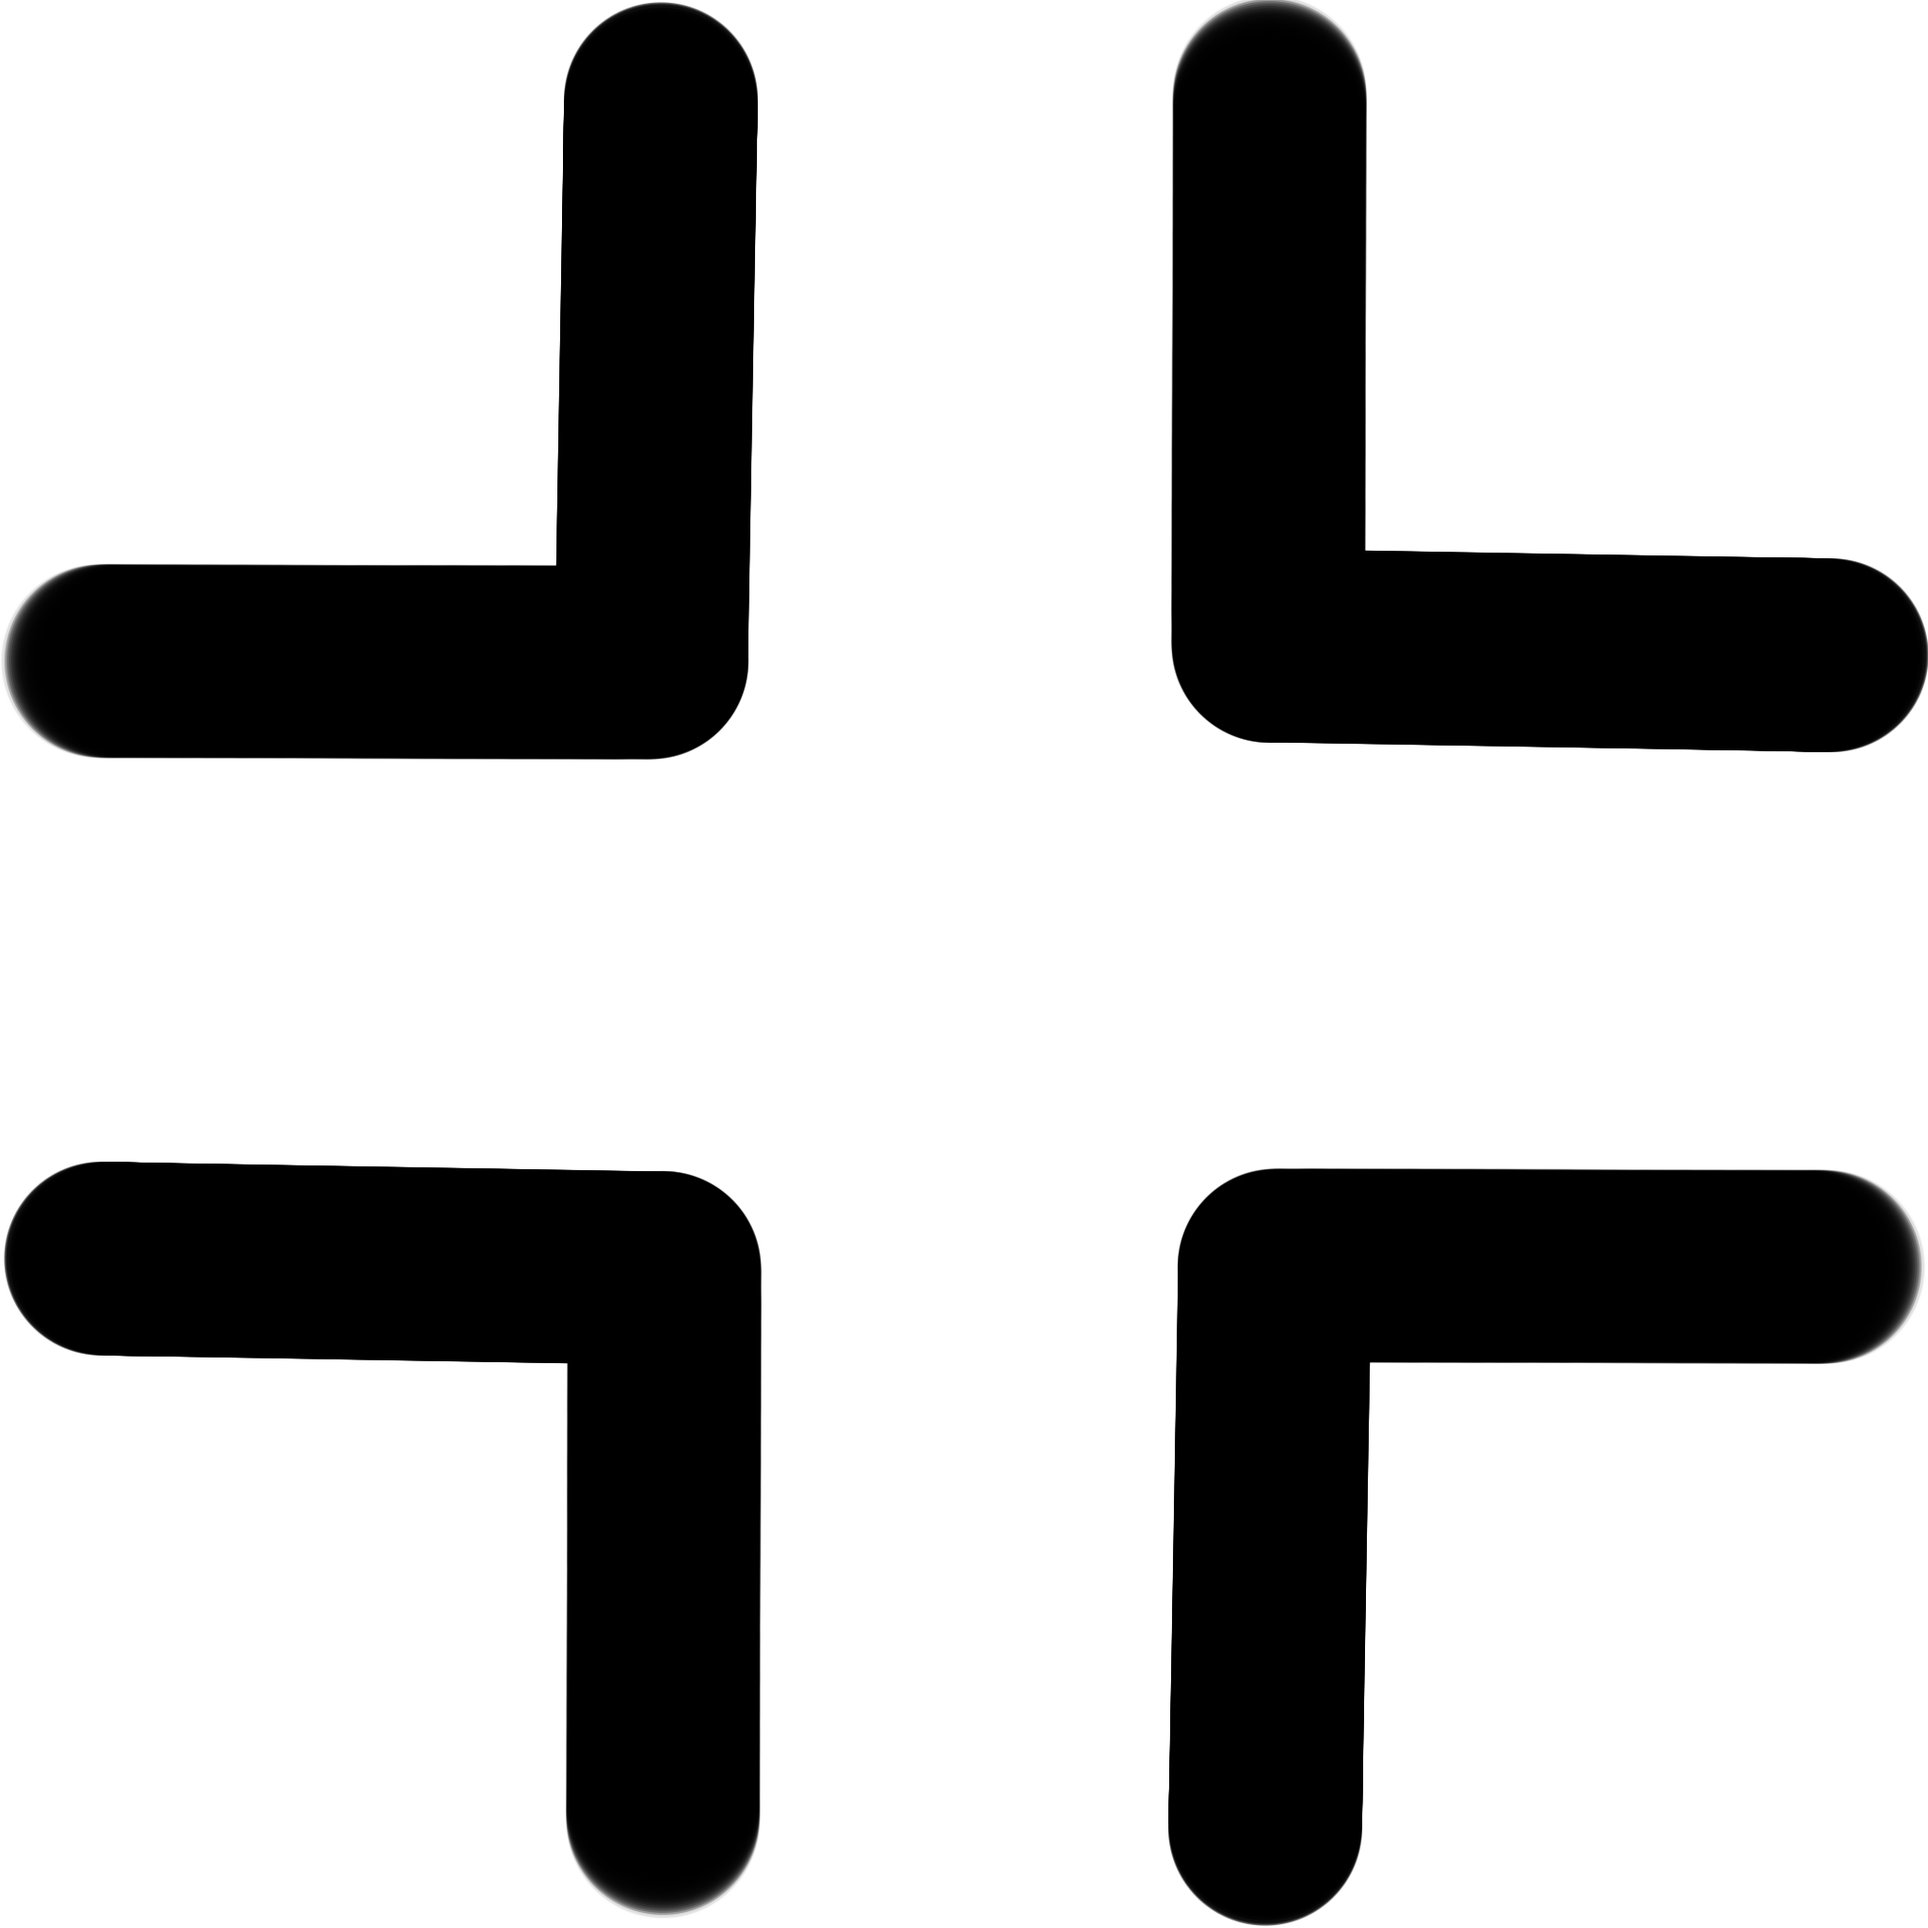
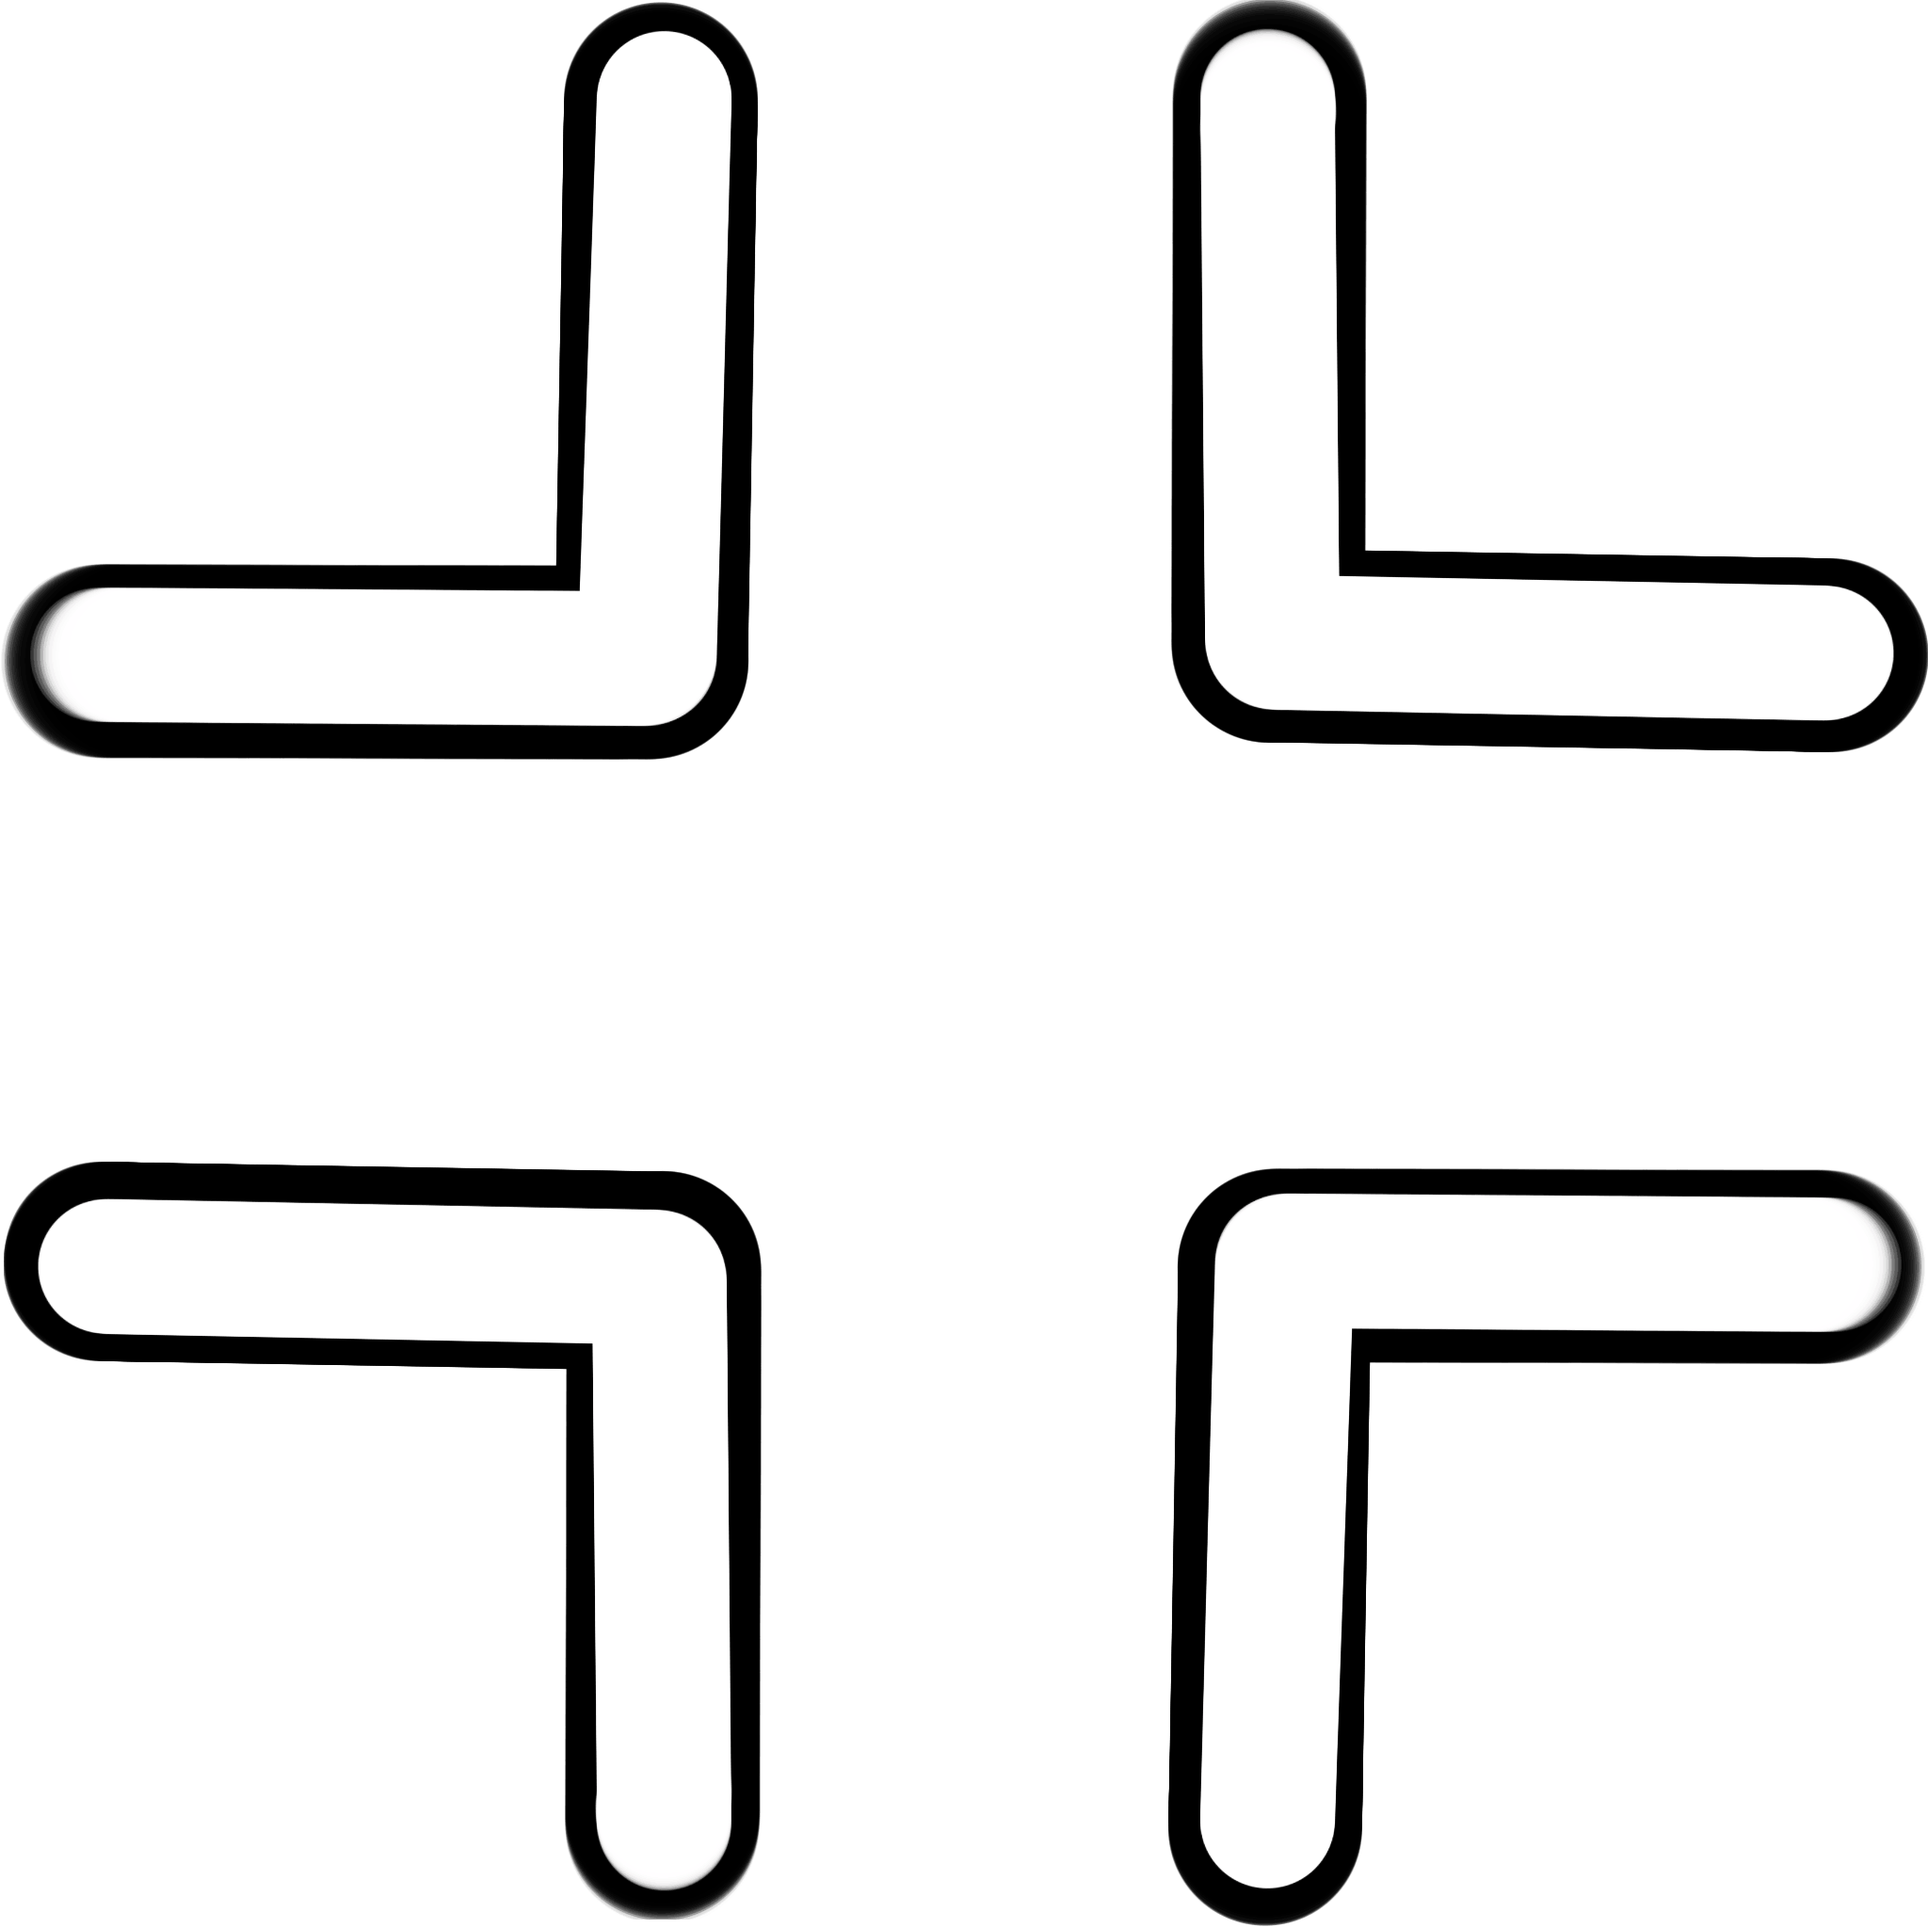
imported new pause and fullscreen assets

diff --git a/scenes/level2tutorial.js b/scenes/level2tutorial.js
@@ -80,7 +80,7 @@ class Level2Tutorial extends BaseScene {
 
         this.load.json('score_suspicious', 'assets/beatmaps/score_suspicious.json');
 
-        this.load.image('pause', 'assets/images/menu/pause_white.png');
+        this.load.image('pause', 'assets/images/menu/pause.png');
         this.load.spritesheet('explosion', "assets/images/level2/explosion_particle.png", { frameWidth: 32, frameHeight: 32});
         this.load.image('angry_alien', 'assets/images/level2/angry_alien.png');
         this.load.image('friendly_alien', 'assets/images/level2/friendly_alien.png');

diff --git a/scenes/level2.js b/scenes/level2.js
@@ -54,7 +54,7 @@ class Level2 extends BaseScene {
         this.load.json('score_suspicious', 'assets/beatmaps/score_suspicious.json');
 
         this.load.image('planet1', 'assets/images/level2/planet1.png');
-        this.load.image('pause', 'assets/images/menu/pause_white.png');
+        this.load.image('pause', 'assets/images/menu/pause.png');
         this.load.image('planet2', 'assets/images/level2/planet2.png');
         this.load.image('planet3', 'assets/images/level2/planet3.png');
         this.load.image('sun', 'assets/images/level2/sun.png');

diff --git a/scenes/level1.js b/scenes/level1.js
@@ -56,7 +56,7 @@ class Level1 extends BaseScene {
         });
 
         this.load.image('fullscreen', "assets/images/menu/fullscreen.png");
-        this.load.image('pause', 'assets/images/menu/pause_white.png');
+        this.load.image('pause', 'assets/images/menu/pause.png');
 
     }
 
